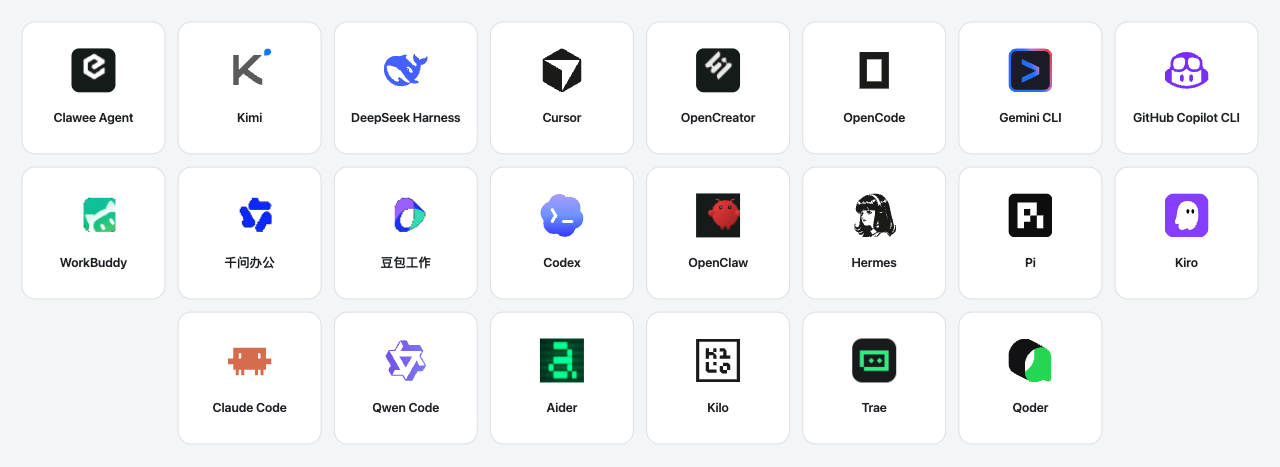
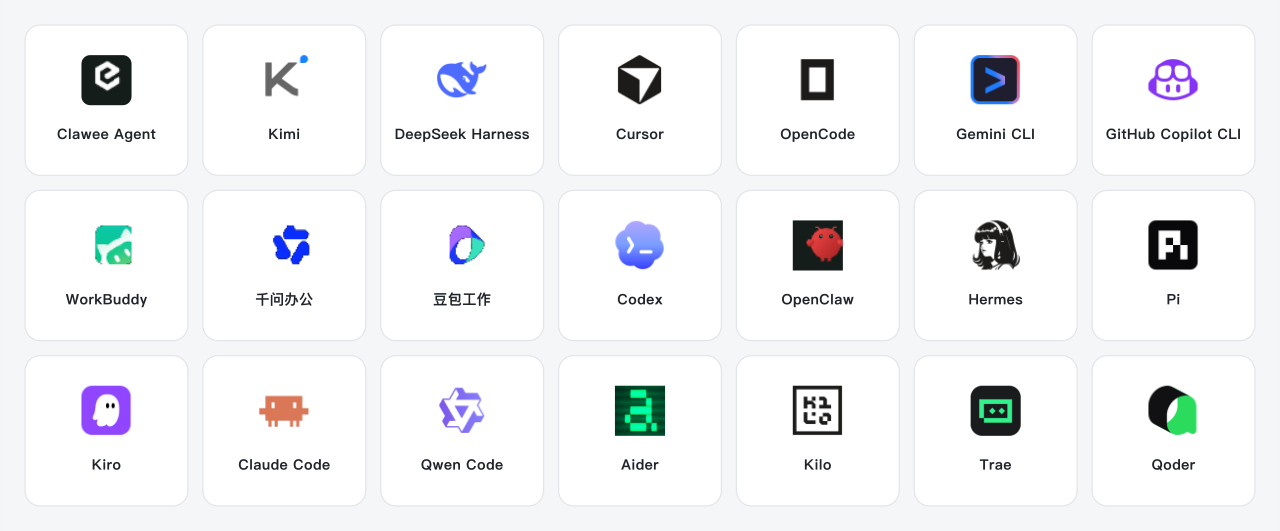
docs: 调整 README 结构与 Agent 展示

diff --git a/docs/en/README.md b/docs/en/README.md
@@ -6,13 +6,17 @@
 
 Connect models, MCP tools, knowledge bases, and shared resources through a single gateway for authentication, access control, routing, approvals, auditing, and usage analytics. **Supports all mainstream Agents, including the one you already use, and over 1,100 models.**
 
-[中文](../../README.md) · [English](./README.md)
+[简体中文](../../README.md) · [English](./README.md)
 
 [![GitHub Stars](https://img.shields.io/github/stars/krillinai/AIGateway?style=social)](https://github.com/krillinai/AIGateway/stargazers)
 [![License](https://img.shields.io/badge/License-Apache%202.0-blue.svg)](../../LICENSE)
 [![Go](https://img.shields.io/badge/Go-1.25-00ADD8?logo=go&logoColor=white)](../../server/go.mod)
 [![React](https://img.shields.io/badge/React-19-61DAFB?logo=react&logoColor=black)](../../server/web/package.json)
 
+</div>
+
+<div align="center">
+  <img src="../assets/aigateway-overview.png" alt="AI Gateway connecting Agents, models, tools, data, and business systems" width="100%" />
 </div>
 
 ## Project Overview
@@ -22,10 +26,6 @@ As organizations adopt more Agents, models, and tools, scattered credentials, pe
 This repository includes the **Go Gateway, React management console, PostgreSQL migrations, and deployment tooling**. It can run independently or serve as the backend for [ClaweeAgent](https://github.com/krillinai/ClaweeAgent).
 
 AI Gateway does not provide a local Agent Runtime, desktop client, or enterprise business system. It exposes an OpenAI-compatible HTTP API for models and MCP over Streamable HTTP for tools.
-
-<div align="center">
-  <img src="../assets/aigateway-overview.png" alt="AI Gateway connecting Agents, models, tools, data, and business systems" width="100%" />
-</div>
 
 ## Core Capabilities
 
@@ -38,35 +38,43 @@ AI Gateway does not provide a local Agent Runtime, desktop client, or enterprise
 | Auditing and Usage | Track callers, routes, status, latency, errors, and token usage with personal history and administrator analytics |
 | Skill Hub | Skill packages, versions, spaces, Git sources, review and publishing workflows, and client downloads |
 | Knowledge and Files | Bailian knowledge base integration, shared spaces, file upload and download, and local or Alibaba Cloud OSS storage |
-| Enterprise Extensions | Workflows and approvals, Agent activity, DingTalk, Bilibili, external model configuration, billing, and other optional integrations |
 
-Model and MCP audits are redacted and do not store plaintext API keys, cookies, or upstream credentials. Optional enterprise integrations are not required for core account, RBAC, and MCP governance capabilities.
+Model and MCP audits are redacted and do not store plaintext API keys, cookies, or upstream credentials.
+
+## Enterprise Extensions
+
+Optional integrations include workflows and approvals, Agent activity, DingTalk, Bilibili, external model configuration, and billing. Optional enterprise integrations are not required for core account, RBAC, and MCP governance capabilities.
 
 ## Supported Agents
 
 AI Gateway supports all mainstream Agents. Configure your Agent to use the Gateway's OpenAI-compatible API or MCP endpoint to access centralized identity, access control, routing, approvals, and auditing.
 
-### Our Products
-
-| Product | Purpose |
-| --- | --- |
-| <img src="../assets/agents/clawee-agent.png" alt="Clawee Agent Logo" width="20" height="20" align="absmiddle" /> [Clawee Agent](https://github.com/krillinai/ClaweeAgent) | Our enterprise Agent for custom business modules |
-| <img src="../assets/agents/opencreator.png" alt="OpenCreator Logo" width="20" height="20" align="absmiddle" /> [OpenCreator](https://github.com/krillinai/OpenCreator) | Our content creation Agent for enterprise content workflows |
-
-### Mainstream Agents and Platforms
-
-| | | |
-| --- | --- | --- |
-| <img src="../assets/agents/kimi.svg" alt="Kimi Logo" width="20" height="20" align="absmiddle" /> Kimi | <img src="../assets/agents/deepseek.svg" alt="DeepSeek Harness Logo" width="20" height="20" align="absmiddle" /> DeepSeek Harness | <img src="../assets/agents/cursor.svg" alt="Cursor Logo" width="20" height="20" align="absmiddle" /> [Cursor](https://www.cursor.com/) |
-| <img src="../assets/agents/opencode.svg" alt="OpenCode Logo" width="20" height="20" align="absmiddle" /> [OpenCode](https://opencode.ai/) | <img src="../assets/agents/gemini.svg" alt="Gemini CLI Logo" width="20" height="20" align="absmiddle" /> [Gemini CLI](https://github.com/google-gemini/gemini-cli) | <img src="../assets/agents/copilot.svg" alt="GitHub Copilot CLI Logo" width="20" height="20" align="absmiddle" /> [GitHub Copilot CLI](https://github.com/features/copilot/cli) |
-| <img src="../assets/agents/workbuddy.png" alt="WorkBuddy Logo" width="20" height="20" align="absmiddle" /> WorkBuddy | <img src="../assets/agents/qwen-work.png" alt="Qwen Workspace Logo" width="20" height="20" align="absmiddle" /> Qwen Workspace (千问办公) | <img src="../assets/agents/doubao-work.png" alt="Doubao Workspace Logo" width="20" height="20" align="absmiddle" /> Doubao Workspace (豆包工作) |
-| <img src="../assets/agents/codex.svg" alt="Codex Logo" width="20" height="20" align="absmiddle" /> [Codex](https://github.com/openai/codex) | <img src="../assets/agents/openclaw.png" alt="OpenClaw Logo" width="20" height="20" align="absmiddle" /> [OpenClaw](https://github.com/openclaw/openclaw) | <img src="../assets/agents/hermes.svg" alt="Hermes Logo" width="20" height="20" align="absmiddle" /> [Hermes](https://github.com/NousResearch/hermes-agent) |
-| <img src="../assets/agents/pi.svg" alt="Pi Logo" width="20" height="20" align="absmiddle" /> [Pi](https://github.com/badlogic/pi-mono) | <img src="../assets/agents/kiro.svg" alt="Kiro Logo" width="20" height="20" align="absmiddle" /> [Kiro](https://kiro.dev/) | <img src="../assets/agents/claude.svg" alt="Claude Code Logo" width="20" height="20" align="absmiddle" /> [Claude Code](https://docs.anthropic.com/en/docs/claude-code) |
-| <img src="../assets/agents/qwen.svg" alt="Qwen Code Logo" width="20" height="20" align="absmiddle" /> Qwen Code | <img src="../assets/agents/aider.png" alt="Aider Logo" width="20" height="20" align="absmiddle" /> [Aider](https://github.com/Aider-AI/aider) | <img src="../assets/agents/kilo.svg" alt="Kilo Logo" width="20" height="20" align="absmiddle" /> [Kilo](https://github.com/Kilo-Org/kilocode) |
-| <img src="../assets/agents/trae.png" alt="Trae Logo" width="20" height="20" align="absmiddle" /> [Trae](https://www.trae.ai/) | <img src="../assets/agents/qoder.svg" alt="Qoder Logo" width="20" height="20" align="absmiddle" /> [Qoder](https://qoder.com/) | |
+| Agent / Platform | Status | Quick Start |
+| --- | :---: | --- |
+| [Clawee Agent](https://github.com/krillinai/ClaweeAgent) | ✅ Supported | [Integration guide](#client-integration) |
+| Kimi | ✅ Supported | [Integration guide](#client-integration) |
+| DeepSeek Harness | ✅ Supported | [Integration guide](#client-integration) |
+| [Cursor](https://www.cursor.com/) | ✅ Supported | [Integration guide](#client-integration) |
+| [OpenCode](https://opencode.ai/) | ✅ Supported | [Integration guide](#client-integration) |
+| [Gemini CLI](https://github.com/google-gemini/gemini-cli) | ✅ Supported | [Integration guide](#client-integration) |
+| [GitHub Copilot CLI](https://github.com/features/copilot/cli) | ✅ Supported | [Integration guide](#client-integration) |
+| WorkBuddy | ✅ Supported | [Integration guide](#client-integration) |
+| Qwen Workspace (千问办公) | ✅ Supported | [Integration guide](#client-integration) |
+| Doubao Workspace (豆包工作) | ✅ Supported | [Integration guide](#client-integration) |
+| [Codex](https://github.com/openai/codex) | ✅ Supported | [Integration guide](#client-integration) |
+| [OpenClaw](https://github.com/openclaw/openclaw) | ✅ Supported | [Integration guide](#client-integration) |
+| [Hermes](https://github.com/NousResearch/hermes-agent) | ✅ Supported | [Integration guide](#client-integration) |
+| [Pi](https://github.com/badlogic/pi-mono) | ✅ Supported | [Integration guide](#client-integration) |
+| [Kiro](https://kiro.dev/) | ✅ Supported | [Integration guide](#client-integration) |
+| [Claude Code](https://docs.anthropic.com/en/docs/claude-code) | ✅ Supported | [Integration guide](#client-integration) |
+| Qwen Code | ✅ Supported | [Integration guide](#client-integration) |
+| [Aider](https://github.com/Aider-AI/aider) | ✅ Supported | [Integration guide](#client-integration) |
+| [Kilo](https://github.com/Kilo-Org/kilocode) | ✅ Supported | [Integration guide](#client-integration) |
+| [Trae](https://www.trae.ai/) | ✅ Supported | [Integration guide](#client-integration) |
+| [Qoder](https://qoder.com/) | ✅ Supported | [Integration guide](#client-integration) |
 
 <div align="center">
-  <img src="../assets/supported-agents.png" alt="22 mainstream Agents and platforms supported by AI Gateway" width="100%" />
+  <img src="../assets/supported-agents.png" alt="21 mainstream Agents and platforms supported by AI Gateway" width="100%" />
 </div>
 
 ## System Architecture
